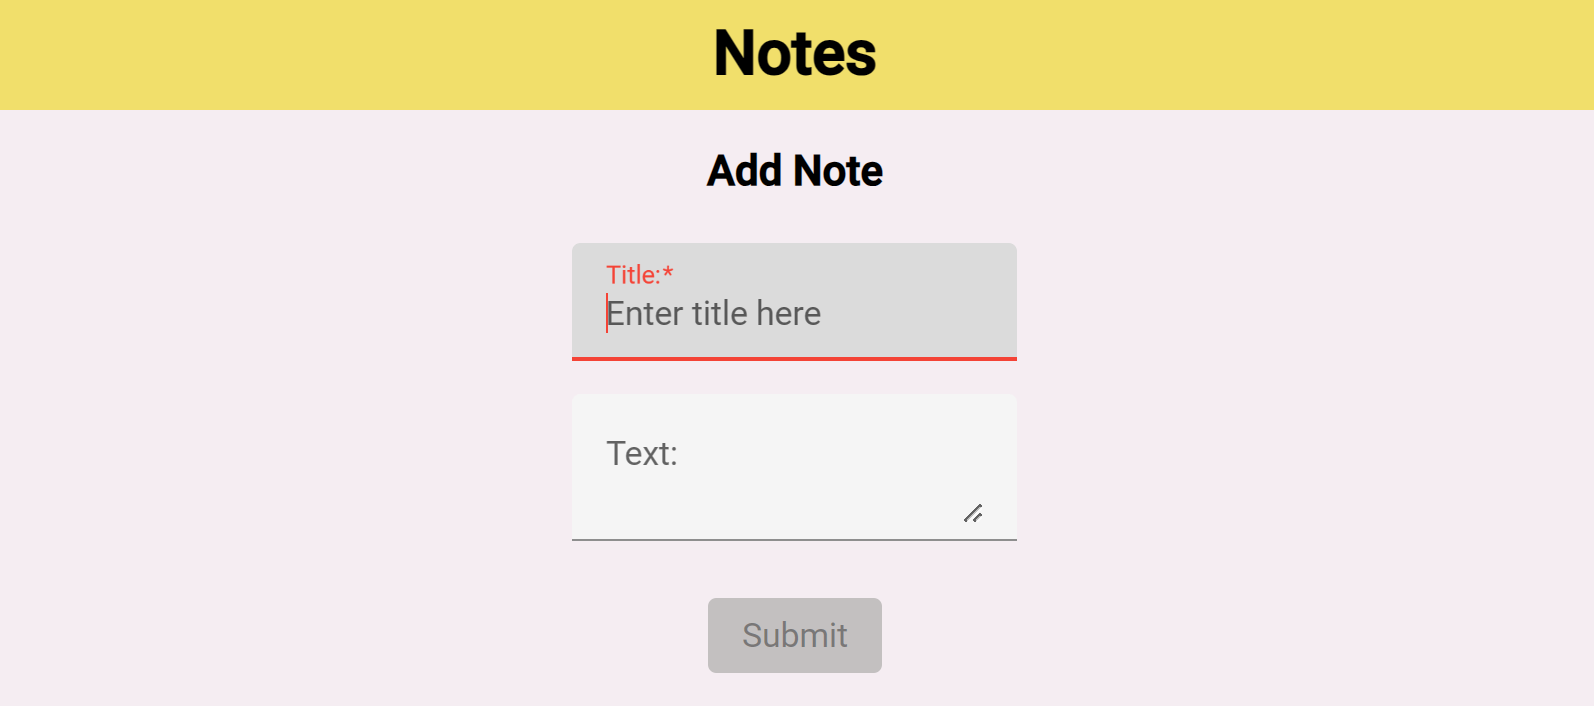
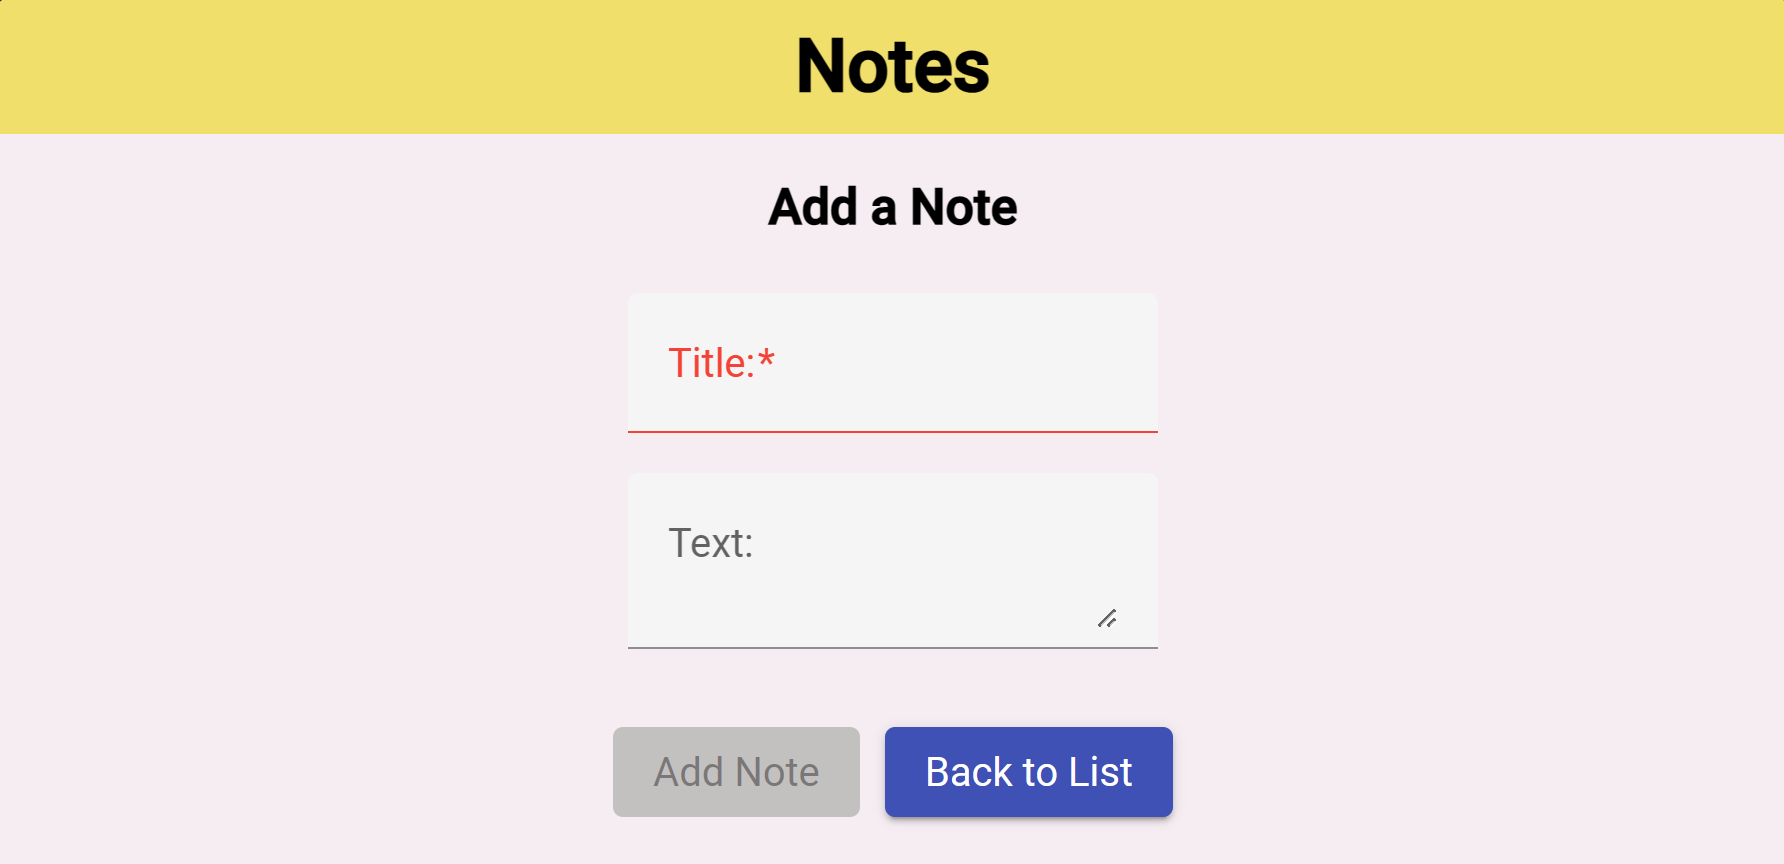
Add note removal and update components
This commit adds note removal functionality and updates the add-note component with a back-to-list button. It also makes adjustments in the files to improve the visuals.

diff --git a/src/app/add-note/add-note.component.html b/src/app/add-note/add-note.component.html
@@ -1,20 +1,23 @@
 <div class="canvas">
-  <h2>Add Note</h2>
+  <h2>Add a Note</h2>
   <form [formGroup]="noteForm" (ngSubmit)="addNote()">
     <div class="form-group">
       <div class="form-title">
         <mat-form-field>
           <mat-label>Title:</mat-label>
-          <input matInput id="note-title" formControlName="title" placeholder="Enter title here">
+          <input matInput id="note-title" formControlName="title">
         </mat-form-field>
       </div>
       <div class="form-text">
         <mat-form-field>
           <mat-label>Text:</mat-label>
-          <textarea matInput id="note-text" formControlName="text" placeholder="Enter text here"></textarea>
+          <textarea matInput id="note-text" formControlName="text" ></textarea>
         </mat-form-field>
       </div>
     </div>
-    <button mat-raised-button color="primary" type="submit" [disabled]="!noteForm.valid">Submit</button>
+    <nav>
+      <button id="add-note" mat-raised-button type="submit" [disabled]="!noteForm.valid">Add Note</button>
+      <button mat-raised-button color="primary" routerLink="">Back to List</button>
+    </nav>
   </form>
 </div>

diff --git a/src/app/add-note/add-note.component.ts b/src/app/add-note/add-note.component.ts
@@ -3,13 +3,14 @@ import { ReactiveFormsModule } from '@angular/forms';
 import { FormGroup, FormControl, Validators } from '@angular/forms';
 import { MatInputModule } from '@angular/material/input';
 import { MatButtonModule } from '@angular/material/button';
+import { RouterModule } from '@angular/router';
 import { Router } from '@angular/router';
 import { NOTES } from '../../notes';
 
 @Component({
   selector: 'app-add-note',
   standalone: true,
-  imports: [ReactiveFormsModule, MatInputModule, MatButtonModule],
+  imports: [ReactiveFormsModule, MatInputModule, MatButtonModule, RouterModule],
   templateUrl: './add-note.component.html',
   styleUrl: './add-note.component.css'
 })

diff --git a/src/app/note-detail/note-detail.component.ts b/src/app/note-detail/note-detail.component.ts
@@ -11,9 +11,16 @@ import { NOTES } from '../../notes';
   styleUrl: './note-detail.component.css'
 })
 
-  // Inject ActivatedRoute to get the current route, extract its ID, and find the corresponding note
 export class NoteDetailComponent {
+    // Inject ActivatedRoute to get the current route, extract its ID, and find the corresponding note
     currentRoute = inject(ActivatedRoute);
     id = Number(this.currentRoute.snapshot.paramMap.get('id'));
     note = NOTES.find((note) => note.id === this.id);
+
+    onDeleteNote() {
+      if (this.note != undefined) {
+        const index = NOTES.indexOf(this.note, 0);
+        NOTES.splice(index, 1);
+      }
+    }
 }

diff --git a/src/app/note-detail/note-detail.component.css b/src/app/note-detail/note-detail.component.css
@@ -1,18 +1,27 @@
 #canvas {
   background-color: #fff;
-  margin: 10px;
+  margin: 20px;
   padding: 20px;
   border-radius: 15px;
 }
+
 button {
   width: 120px;
   border-radius: 8px;
+  margin-right: 10px;
   padding: 10px;
 }
+
+#delete {
+  background-color: red;
+  color: white;
+}
+
 nav{
   display: flex;
   justify-content: center;
 }
+
 .note-id{
   display: block;
   text-align: left;

diff --git a/src/app/note-detail/note-detail.component.html b/src/app/note-detail/note-detail.component.html
@@ -7,4 +7,5 @@
 }
 <nav>
   <button mat-raised-button color="primary" routerLink="">Back to List</button>
+  <button id="delete" mat-raised-button routerLink="" (click)="onDeleteNote()">Delete Note</button>
 </nav>

diff --git a/src/app/add-note/add-note.component.css b/src/app/add-note/add-note.component.css
@@ -2,12 +2,12 @@ form div {
   padding: 3px;
 }
 
-form button {
-  margin-top: 1px;
-}
-
 form button:disabled {
   background-color: rgb(195, 192, 192);
+}
+
+button {
+  margin: 5px;
 }
 
 .form-title {

diff --git a/README.md b/README.md
@@ -4,9 +4,9 @@ This repository demonstrates a single-page application (SPA) for note taking usi
 
 ![Notes list](notes-list.png)
 
-![Note details](note-details.png)
-
 ![Add a note](add-note.png)
+
+![Note details](note-details.png)
 
 ## Features
 - <b>Material Design</b>: Provides a modern look and feel
